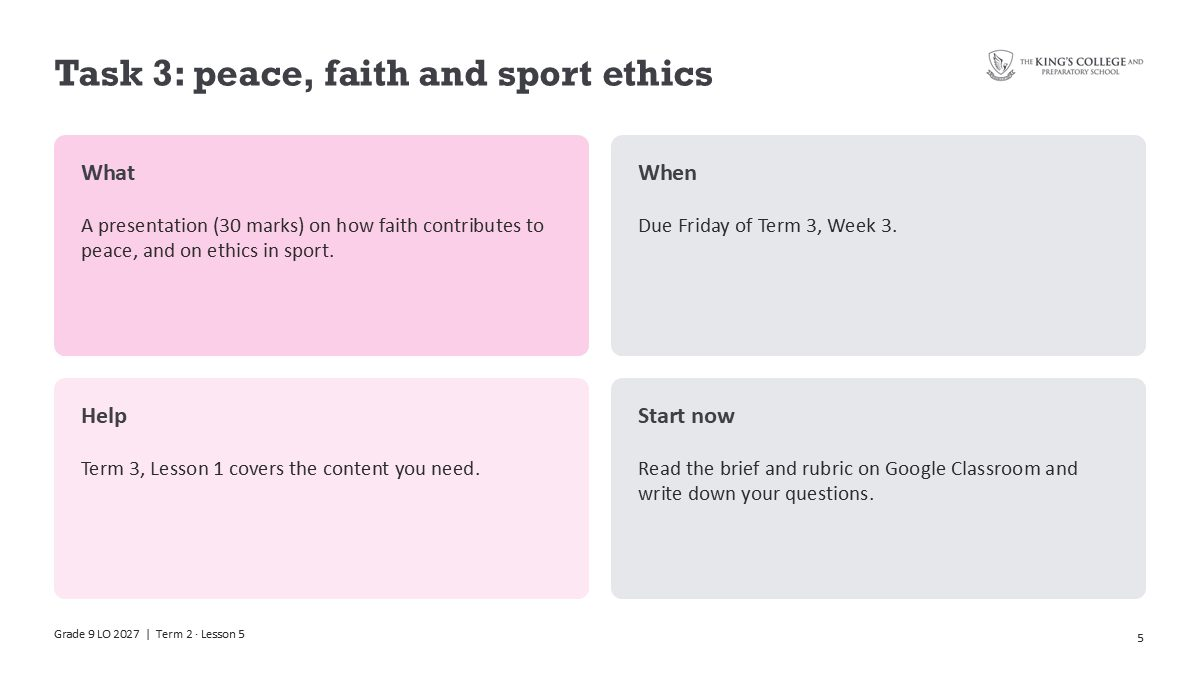
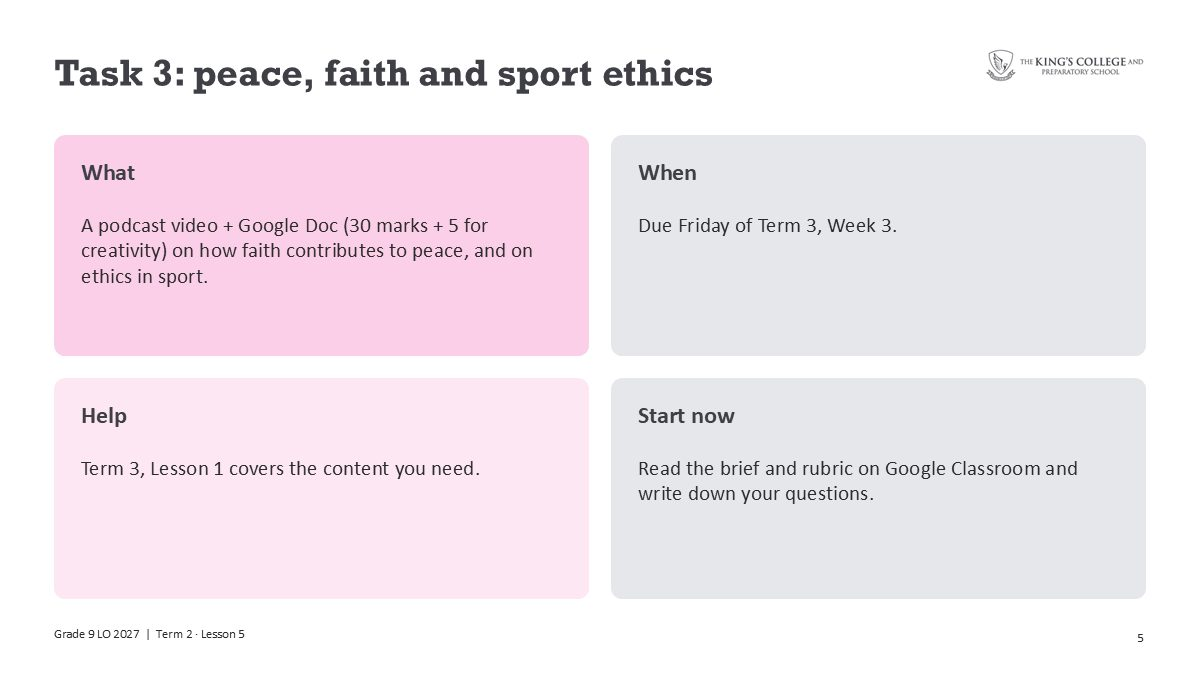
Task dates: Task 1 due Week 4; Tasks 2-3 podcast video + Google Doc

Changed region(s): [[0.0617, 0.3111, 0.4625, 0.4356]]

diff --git a/grade-8/lesson-8-02.html b/grade-8/lesson-8-02.html
@@ -61,7 +61,7 @@
 <div class="callout butter"><strong>Example</strong><p>Question: Explain how planning backwards can reduce stress for a Grade 8 learner. (1 x 2) (2)<br>Answer: Big tasks are broken into small steps that are spread over several days ✓, so the learner does not have to do everything the night before and feels less stressed ✓.</p></div>
 <div class="callout peach"><strong>Exam tip</strong><p>Know the four groups of the urgent/important grid with an example of each, and be able to explain (with a reason and a result) how planning backwards reduces stress.</p></div>
 <div class="callout mint"><strong>Remember</strong><p>Put every deadline in one place, then plan backwards from it.</p></div>
-<h3>In class: Set up my calendar</h3><ol><li>Open Google Calendar with your school account.</li><li>Create your subject colours.</li><li>Add every test and task date from the term assessment calendar.</li><li>Add one study block before each deadline and set reminders.</li><li>Read the Task 1 brief: it is due Friday of Week 5.</li></ol></section><section id="test" class="card"><h2>Test yourself</h2><ol><li>Give an example of something urgent but not important.</li><li>What does &#x27;planning backwards&#x27; mean?</li><li>When is Task 1 due?</li></ol><details class="answers"><summary>Show answers</summary><p>1. A notification, most messages, someone wanting something right now. 2. Starting at the deadline and working back to plan when to do each step. 3. Friday of Week 5.</p></details></section><section id="extension" class="card"><h2>Finished early?</h2><div class="callout mint"><strong>Plan it backwards</strong> <span class="meta">(about 10 minutes)</span><p>Practise planning backwards from a deadline for a pretend task.</p><ol><li>In your LO book, imagine an Art project is due in 10 days. Write the deadline at the bottom of a list of days.</li><li>Break the project into four small steps (for example: ideas, sketches, final piece, check).</li><li>Counting back from the deadline, give each step its own day, and keep one spare day just before the deadline.</li><li>Next to each step, write the reminder you would set in Google Calendar.</li></ol></div>
+<h3>In class: Set up my calendar</h3><ol><li>Open Google Calendar with your school account.</li><li>Create your subject colours.</li><li>Add every test and task date from the term assessment calendar.</li><li>Add one study block before each deadline and set reminders.</li><li>Read the Task 1 brief: it is due Friday of Week 4.</li></ol></section><section id="test" class="card"><h2>Test yourself</h2><ol><li>Give an example of something urgent but not important.</li><li>What does &#x27;planning backwards&#x27; mean?</li><li>When is Task 1 due?</li></ol><details class="answers"><summary>Show answers</summary><p>1. A notification, most messages, someone wanting something right now. 2. Starting at the deadline and working back to plan when to do each step. 3. Friday of Week 4.</p></details></section><section id="extension" class="card"><h2>Finished early?</h2><div class="callout mint"><strong>Plan it backwards</strong> <span class="meta">(about 10 minutes)</span><p>Practise planning backwards from a deadline for a pretend task.</p><ol><li>In your LO book, imagine an Art project is due in 10 days. Write the deadline at the bottom of a list of days.</li><li>Break the project into four small steps (for example: ideas, sketches, final piece, check).</li><li>Counting back from the deadline, give each step its own day, and keep one spare day just before the deadline.</li><li>Next to each step, write the reminder you would set in Google Calendar.</li></ol></div>
 <div class="quiz" data-quiz="[{&quot;q&quot;: &quot;In the urgent/important grid, where does &#x27;studying a week before a test&#x27; belong?&quot;, &quot;options&quot;: [&quot;Urgent and important&quot;, &quot;Urgent, not important&quot;, &quot;Not urgent, not important&quot;, &quot;Important, not urgent&quot;], &quot;answer&quot;: 3, &quot;why&quot;: &quot;It matters for your goals but doesn&#x27;t have to happen right now, so you plan it. Successful learners spend most of their time here.&quot;}, {&quot;q&quot;: &quot;What does &#x27;planning backwards&#x27; mean?&quot;, &quot;options&quot;: [&quot;Doing the last step of a task first&quot;, &quot;Starting at the deadline and working back to decide when each step must be done&quot;, &quot;Making a plan only after the deadline has passed&quot;, &quot;Redoing work you have already handed in&quot;], &quot;answer&quot;: 1, &quot;why&quot;: &quot;You start with the due date and count back, so every small step gets its own day.&quot;}, {&quot;q&quot;: &quot;Why should you leave a spare day before a deadline?&quot;, &quot;options&quot;: [&quot;So that you can start the task on that day&quot;, &quot;In case something unexpected happens, like illness or load-shedding&quot;, &quot;Because teachers give bonus marks for it&quot;, &quot;So that you can skip the checking step&quot;], &quot;answer&quot;: 1, &quot;why&quot;: &quot;A spare day protects you when something gets in the way, so you still hand in on time.&quot;}, {&quot;q&quot;: &quot;Aarav&#x27;s phone keeps buzzing with group-chat messages while he does homework. In the urgent/important grid, most messages like these are…&quot;, &quot;options&quot;: [&quot;Urgent and important: do it now&quot;, &quot;Urgent, not important: keep it short or do it later&quot;, &quot;Important, not urgent: plan it&quot;, &quot;Not tasks at all, so they don&#x27;t affect his time&quot;], &quot;answer&quot;: 1, &quot;why&quot;: &quot;Most notifications feel urgent but don&#x27;t matter for his goals, so he should reply later.&quot;}, {&quot;q&quot;: &quot;Mia keeps putting off a big project because it feels too much. What does the Handbook suggest?&quot;, &quot;options&quot;: [&quot;Wait until she feels motivated&quot;, &quot;Do it all the night before so it is over quickly&quot;, &quot;Keep her phone next to her so she can take breaks&quot;, &quot;Break it into a tiny first step, such as opening the document and writing the heading&quot;], &quot;answer&quot;: 3, &quot;why&quot;: &quot;Procrastination often happens when a task feels too big; a tiny first step makes it easier to start.&quot;}]"><h3>Quick quiz</h3><div class="qbody"></div><p class="score" aria-live="polite"></p><button type="button" class="retry" hidden>Try again</button></div></section></main></div>
 <footer class="foot">The King's College &amp; Preparatory School &middot; Raise up and release Godly leaders through education.</footer>
 <script src="assets/site.js"></script></body></html>

diff --git a/grade-9/lesson-9-02.html b/grade-9/lesson-9-02.html
@@ -58,7 +58,7 @@
 <div class="callout butter"><strong>Example</strong><p>Question: Analyse how taking accountability for deadlines can help a Grade 9 learner. (1 x 4) (4)<br>Answer: An accountable learner plans their own deadlines instead of blaming others ✓ which means they start tasks early and ask for help in time ✓ especially in busy weeks with tests and sport ✓ so they hand in better work, feel less stressed and earn their teachers&#x27; trust ✓.</p></div>
 <div class="callout peach"><strong>Exam tip</strong><p>Be able to explain the difference between responsibility and accountability, and between effective and efficient, and to recommend (with a reason and a result) ways to manage time better.</p></div>
 <div class="callout mint"><strong>Remember</strong><p>Own your time: plan it, check it, and take responsibility for it.</p></div>
-<h3>In class: Set up my calendar</h3><ol><li>Open Google Calendar with your school account.</li><li>Create your subject colours.</li><li>Add every test and task date for the term.</li><li>Add study blocks and reminders before each deadline.</li><li>Read the Task 1 brief: due in the Lesson 5 week.</li></ol></section><section id="test" class="card"><h2>Test yourself</h2><ol><li>What is the difference between effective and efficient?</li><li>Give one example of being accountable.</li><li>When is Task 1 due?</li></ol><details class="answers"><summary>Show answers</summary><p>1. Effective = the right result; efficient = no wasted time or energy. 2. e.g. admitting a missed deadline and fixing your plan. 3. In the Lesson 5 week.</p></details></section><section id="extension" class="card"><h2>Finished early?</h2><div class="callout mint"><strong>Sort my week</strong> <span class="meta">(about 10 minutes)</span><p>Use the urgent vs important groups to see where your time really goes.</p><ol><li>Draw four boxes in your LO book: Urgent and important; Important, not urgent; Urgent, not important; Not urgent, not important.</li><li>Write two of your real tasks or activities from this week in each box.</li><li>Circle the box where you spend the most time.</li><li>Write one change you will make this week to spend more time in &#x27;Important, not urgent&#x27;.</li></ol></div>
+<h3>In class: Set up my calendar</h3><ol><li>Open Google Calendar with your school account.</li><li>Create your subject colours.</li><li>Add every test and task date for the term.</li><li>Add study blocks and reminders before each deadline.</li><li>Read the Task 1 brief: due Friday of Week 4.</li></ol></section><section id="test" class="card"><h2>Test yourself</h2><ol><li>What is the difference between effective and efficient?</li><li>Give one example of being accountable.</li><li>When is Task 1 due?</li></ol><details class="answers"><summary>Show answers</summary><p>1. Effective = the right result; efficient = no wasted time or energy. 2. e.g. admitting a missed deadline and fixing your plan. 3. Friday of Week 4.</p></details></section><section id="extension" class="card"><h2>Finished early?</h2><div class="callout mint"><strong>Sort my week</strong> <span class="meta">(about 10 minutes)</span><p>Use the urgent vs important groups to see where your time really goes.</p><ol><li>Draw four boxes in your LO book: Urgent and important; Important, not urgent; Urgent, not important; Not urgent, not important.</li><li>Write two of your real tasks or activities from this week in each box.</li><li>Circle the box where you spend the most time.</li><li>Write one change you will make this week to spend more time in &#x27;Important, not urgent&#x27;.</li></ol></div>
 <div class="quiz" data-quiz="[{&quot;q&quot;: &quot;Studying a week before a test is an example of which kind of task?&quot;, &quot;options&quot;: [&quot;Urgent and important&quot;, &quot;Important, not urgent&quot;, &quot;Urgent, not important&quot;, &quot;Not urgent, not important&quot;], &quot;answer&quot;: 1, &quot;why&quot;: &quot;It matters for your goals but doesn&#x27;t have to happen right now: plan it. Successful learners spend most of their time here.&quot;}, {&quot;q&quot;: &quot;Which response shows ACCOUNTABILITY after a missed deadline?&quot;, &quot;options&quot;: [&quot;&#x27;I didn&#x27;t plan well; this is how I&#x27;ll fix it.&#x27;&quot;, &quot;&#x27;Nobody told us the date.&#x27;&quot;, &quot;&#x27;My partner didn&#x27;t do their part.&#x27;&quot;, &quot;&#x27;The deadline was unfair anyway.&#x27;&quot;], &quot;answer&quot;: 0, &quot;why&quot;: &quot;Accountability means owning your actions and their results without blaming others.&quot;}, {&quot;q&quot;: &quot;Thabo finishes his homework in ten minutes, but most of it is wrong. He was…&quot;, &quot;options&quot;: [&quot;effective, but not efficient&quot;, &quot;both effective and efficient&quot;, &quot;efficient, but not effective&quot;, &quot;effective, because he finished&quot;], &quot;answer&quot;: 2, &quot;why&quot;: &quot;Efficient means no wasted time; effective means the right result. He was fast but didn&#x27;t get the right result.&quot;}, {&quot;q&quot;: &quot;In Google Calendar, what does &#x27;plan backwards&#x27; mean?&quot;, &quot;options&quot;: [&quot;Start with your easiest subject first&quot;, &quot;Put the latest deadlines at the top of the list&quot;, &quot;Delete last week&#x27;s events every Sunday&quot;, &quot;Add study blocks on the days before each deadline&quot;], &quot;answer&quot;: 3, &quot;why&quot;: &quot;Planning backwards means working back from each deadline and adding study blocks before it.&quot;}, {&quot;q&quot;: &quot;Which tip helps most to beat procrastination?&quot;, &quot;options&quot;: [&quot;Wait until you feel motivated before you start&quot;, &quot;Keep your phone next to you for quick breaks&quot;, &quot;Break the task into a tiny first step and work for 25 minutes&quot;, &quot;Do the whole task in one long session late at night&quot;], &quot;answer&quot;: 2, &quot;why&quot;: &quot;Starting is the hardest part: a tiny first step, phone in another room, 25 minutes of work and a 5-minute break.&quot;}]"><h3>Quick quiz</h3><div class="qbody"></div><p class="score" aria-live="polite"></p><button type="button" class="retry" hidden>Try again</button></div></section></main></div>
 <footer class="foot">The King's College &amp; Preparatory School &middot; Raise up and release Godly leaders through education.</footer>
 <script src="assets/site.js"></script></body></html>

diff --git a/grade-9/lesson-9-15.html b/grade-9/lesson-9-15.html
@@ -43,7 +43,7 @@
 <div class="callout peach"><strong>Think first</strong><p>The mid-year exam covers Terms 1 and 2. Which topic do you feel MOST ready for, and which LEAST?</p></div>
 <h3>Words to know</h3><dl class="gloss"><dt>Section A</dt><dd>Short questions: multiple choice, terms, true/false.</dd><dt>Section B</dt><dd>Questions about a scenario or source.</dd><dt>Section C</dt><dd>A paragraph answer: choose ONE of two questions.</dd><dt>Mark allocation</dt><dd>The numbers in brackets that show how many points to give.</dd></dl></section><section id="slides" class="card"><h2>Slides</h2><div class="viewer" data-imgs="[&quot;slides/9.15-1.jpg&quot;, &quot;slides/9.15-2.jpg&quot;, &quot;slides/9.15-3.jpg&quot;, &quot;slides/9.15-4.jpg&quot;, &quot;slides/9.15-5.jpg&quot;, &quot;slides/9.15-6.jpg&quot;, &quot;slides/9.15-7.jpg&quot;]"><img src="slides/9.15-1.jpg" alt="Lesson slide 1 of 7" loading="lazy"><div class="viewer-bar"><button type="button" class="prev" aria-label="Previous slide">&larr;</button><span class="count">1 / 7</span><button type="button" class="next" aria-label="Next slide">&rarr;</button></div></div></section><section id="notes" class="card"><h2>Notes</h2><h3>Exam tips</h3>
 <ul><li>Read first: Read the instructions and all the questions.</li><li>Plan time: About 1 minute per mark.</li><li>Build answers: Statement, reason, qualifier, outcome.</li><li>Use the source: Names and details from the scenario earn marks.</li></ul><h3>Task 3: peace, faith and sport ethics</h3>
-<ul><li>What: A presentation (30 marks) on how faith contributes to peace, and on ethics in sport.</li><li>When: Due Friday of Term 3, Week 3.</li><li>Help: Term 3, Lesson 1 covers the content you need.</li><li>Start now: Read the brief and rubric on Google Classroom and write down your questions.</li></ul>
+<ul><li>What: A podcast video + Google Doc (30 marks + 5 for creativity) on how faith contributes to peace, and on ethics in sport.</li><li>When: Due Friday of Term 3, Week 3.</li><li>Help: Term 3, Lesson 1 covers the content you need.</li><li>Start now: Read the brief and rubric on Google Classroom and write down your questions.</li></ul>
 <div class="callout mint"><strong>Remember</strong><p>Read, plan, build, check. Study your weakest topic first.</p></div></section><section id="activity" class="card"><h2>Written practice</h2><p class="meta">Activity 6 &middot; 25 marks &middot; about 28 minutes. Write your answers in your Activity Book. The memo is posted on Google Classroom after the lesson.</p>
 <h3>SECTION A (8 marks)</h3>
 <ol class="questions">
